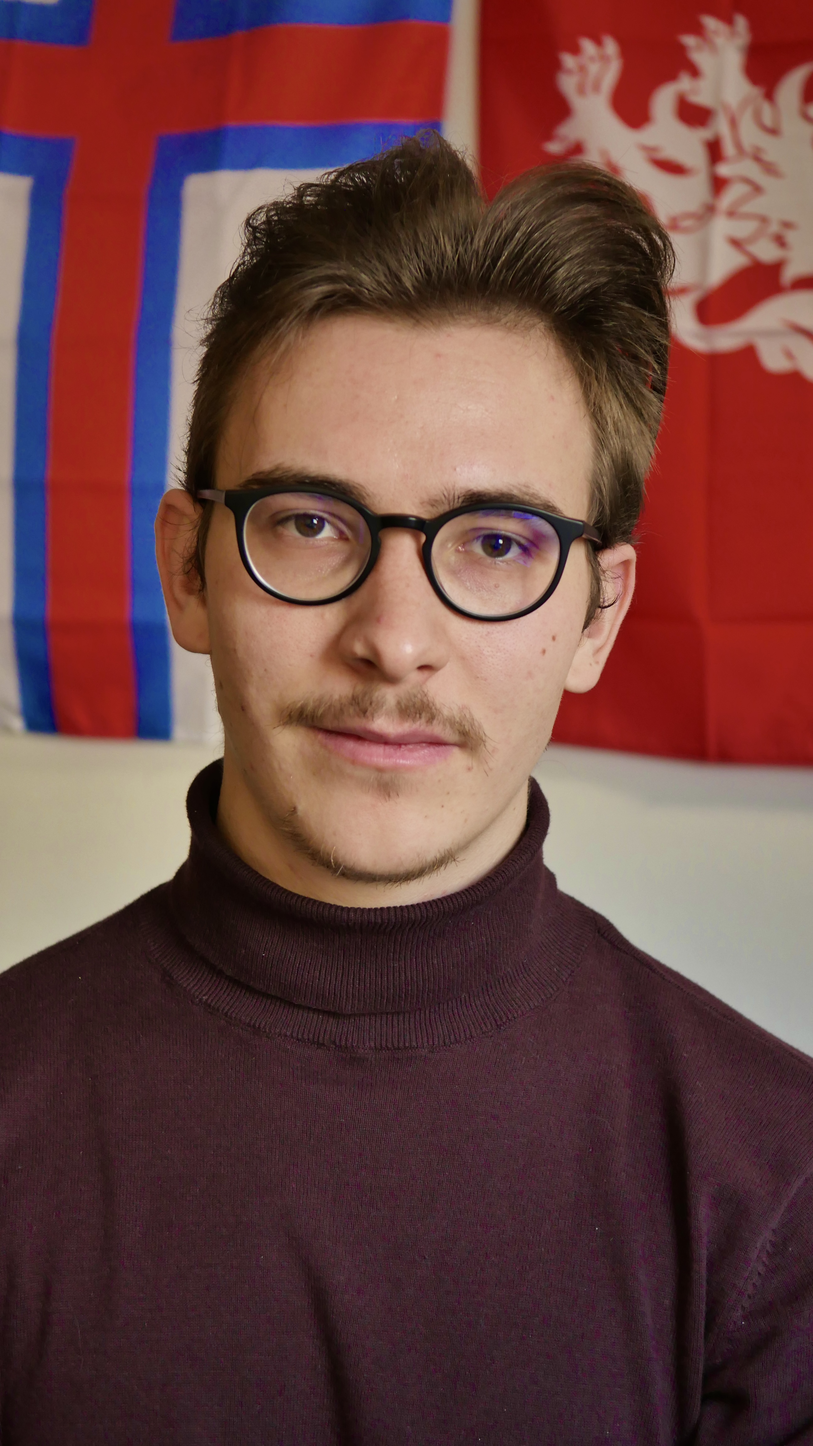
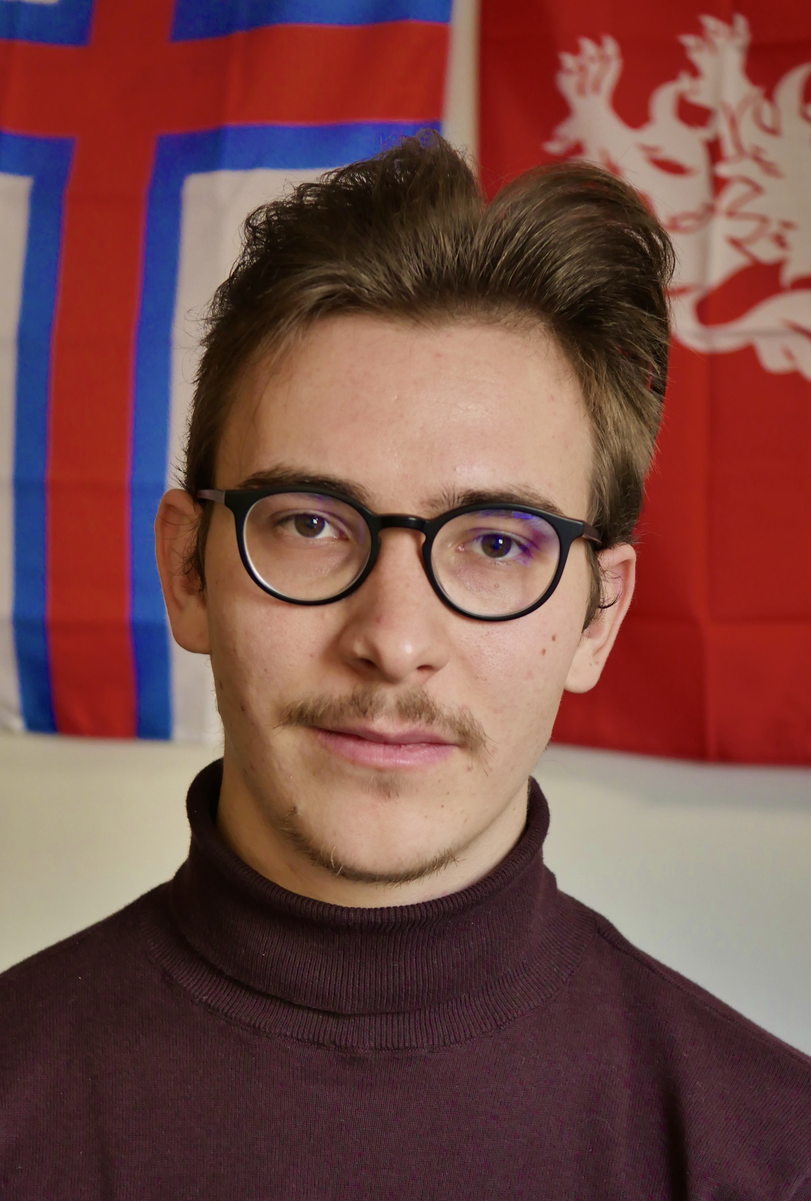
fixed

diff --git a/index.html b/index.html
@@ -148,10 +148,10 @@
 		<hr>
 		<table align=center width=450px>
 			<tr>
-				<td><a href=""><img style="height:175px" src="images/IMG_0243.jpg"/></a></td>
-				<td><span style="font-size:25pt">Lukas Radl</span><br>
-					<span style="font-size:15pt">MSc Student</span><br>
-					<span style="font-size:10pt">Visual Computing & Machine Learning</span><br>
+				<td><a href=""><img style="height:155px" src="images/IMG_0243.jpg"/></a></td>
+				<td><span style="font-size:25pt; font-family: Ubuntu">Lukas Radl</span><br>
+					<span style="font-size:15pt">MSc Student <sup>&ddagger;</sup></span><br>
+					<span style="font-size:10pt">&ddagger; Visual Computing & Machine Learning</span><br>
 					<span style="font-size:10pt">Graz University of Technology</span><br>
 					<a href="https://github.com/r4dl"><img style="height:35px" src="images/github.png"></a>
 					<a href="https://scholar.google.com/citations?user=G_0ZsTIAAAAJ&hl=de"><img style="height:35px" src="images/scholar.png"></a>
@@ -187,9 +187,9 @@
 			<span style="font-size: 15pt;font-family: Ubuntu">Analyzing the Internals of Neural Radiance Fields</span><br>
 			<span style="font-size: 11pt">
 				<span style="font-weight: bolder">Lukas Radl</span>, Andreas Kurz, Markus Steinberger.<br>
-				arXiv Preprint, 2023. ....<br>
+				arXiv Preprint, 2023.<br>
 				2023.<br>
-				<a href="">[Paper]</a> <a href="">[Paper Website]</a> <a href="">[Code]</a>
+				<a href="https://arxiv.org/pdf/2306.00696.pdf">[Paper]</a> <a href="https://r4dl.github.io/nerfinternals/">[Paper Website]</a> <a href="https://github.com/r4dl/nerfinternals">[Code]</a>
 			</span>
 		</td>
 	</tr>
@@ -217,22 +217,16 @@
 	</center>
 	<tr>
 		<td>
-			2021 - 2023, Summer Semester<br>
+			<center>2021 - 2023, Summer Semester</center><br>
 			<span style="font-size:14pt; font-family: Ubuntu; font-weight: bolder; color: #191919">Computer Vision</span><br>
 			<span style="font-size:12pt; font-family: Ubuntu">&bull; Basic Computer Vision. 500+ students. Assignment Interviews, Question Hours, Forum Support and Reference Solutions.</span>
-
-		</td>
-	</tr>
-	<tr style="margin-bottom: 6px">
-		<td style="margin-bottom: 6px">
-			2021 - 2023, Summer Semester<br>
 			<span style="font-size:14pt; font-family: Ubuntu; font-weight: bolder; color: #191919">Computer Graphics</span><br>
 			<span style="font-size:12pt; font-family: Ubuntu">&bull; Basic Computer Graphics. 500+ students. Assignment Interviews, Question Hours, Forum Support and Reference Solutions.</span>
 		</td>
 	</tr>
 	<tr>
 		<td>
-			2022-2023, Winter Semester<br>
+			<center>2022-2023, Winter Semester</center><br>
 			<span style="font-size:14pt; font-family: Ubuntu; font-weight: bolder; color: #191919">Real-Time Graphics<sup>&dagger;</sup></span><br>
 			<span style="font-size:12pt; font-family: Ubuntu">&bull;
 				Real-Time Special Effects, Shader Programming in Diligent Engine.
@@ -241,7 +235,7 @@
 	</tr>
 	<tr>
 		<td>
-			2023, Summer Semester<br>
+			<center>2023, Summer Semester</center><br>
 			<span style="font-size:14pt; font-family: Ubuntu; font-weight: bolder; color: #191919">Mathematical Principles in Visual Computing<sup>&dagger;</sup></span><br>
 			<span style="font-size:12pt; font-family: Ubuntu">&bull;
 				Projective Geometry in Computer Vision and Computer Graphics.
